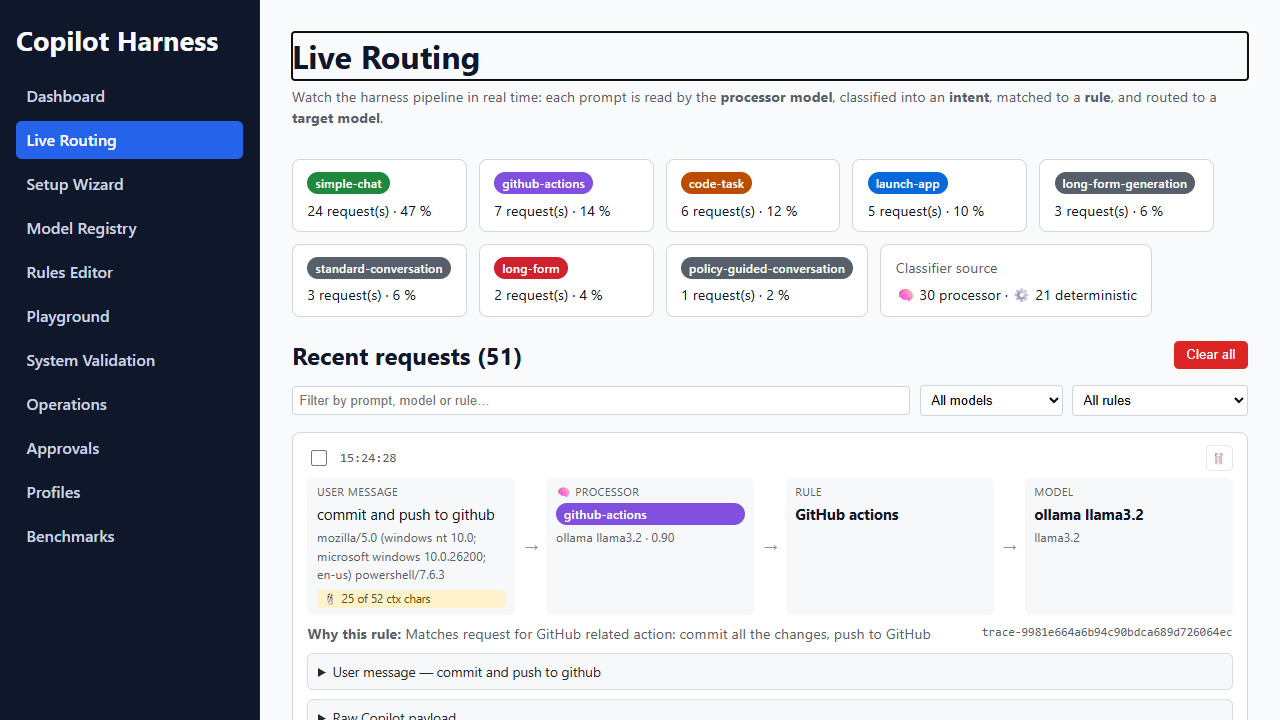
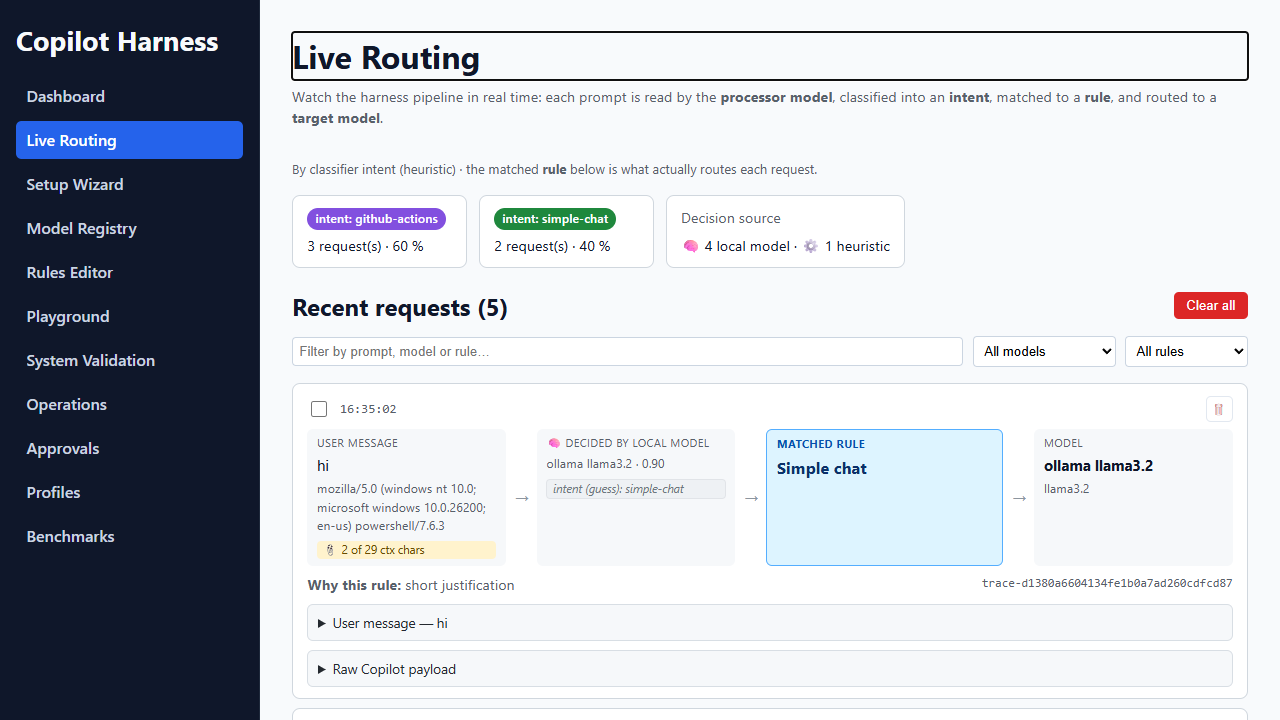
Clarify Live view (intent vs rule), broaden default GitHub rule, document default rules
Live Routing card:
- Lead with the MATCHED RULE (now the dominant element) and show the decision source
  explicitly: "🧠 Decided by local model" vs "⚙️ Keyword/heuristic fallback".
- The classifier intent is no longer a big colored pill that competes with the rule;
  it's a small muted "intent: X" / "intent (guess): X" hint with a clarifying tooltip.
- Top summary cards keep intent grouping but are labeled "By classifier intent (heuristic)".
  Fixes user confusion where intent "github-actions" looked like the chosen rule while the
  actual matched rule differed.

Default starter "GitHub actions" rule (GenerateStarterRulesAsync) broadened to also cover
read-only repo/GitHub questions (open issues, PR status, repo status) so they route to the
local model from a fresh start — not just mutating actions.

Docs (Rules_Engine.md): added a "Default starter rules" section (table + full semantic
paragraph for all four starter rules in priority order) and an "Intent vs. rule" explainer.

Validated: full solution builds clean; 132 tests pass; live-confirmed via Playwright
("are there any open issues in the repo?" -> GitHub actions -> ollama llama3.2, decided by
local model, intent shown as a muted guess). Screenshot refreshed.

diff --git a/src/ElBruno.CopilotHarness.Admin.Web/Components/Pages/LiveRouting.razor.css b/src/ElBruno.CopilotHarness.Admin.Web/Components/Pages/LiveRouting.razor.css
@@ -37,6 +37,27 @@
     text-transform: lowercase;
 }
 
+.summary-caption {
+    margin: 1rem 0 0.35rem;
+    font-size: 0.82rem;
+}
+
+/* Secondary, muted intent guess shown inside a pipeline card. It must never
+   compete visually with the matched rule. */
+.intent-hint {
+    display: inline-block;
+    margin-top: 0.2rem;
+    font-size: 0.72rem;
+    font-style: italic;
+    color: #6e7781;
+    background: #eef1f4;
+    border: 1px solid #e1e4e8;
+    border-radius: 4px;
+    padding: 0.02rem 0.35rem;
+    text-transform: lowercase;
+    cursor: help;
+}
+
 .intent-simple-chat { background: #1f883d; }
 .intent-github-actions { background: #8250df; }
 .intent-launch-app { background: #0969da; }
@@ -93,6 +114,26 @@
     font-size: 0.92rem;
     word-break: break-word;
 }
+
+/* The matched rule is the dominant signal in every card. */
+.stage-primary {
+    background: #ddf4ff;
+    border: 1px solid #54aeff;
+    flex: 1.4 1 9rem;
+}
+
+    .stage-primary .stage-label {
+        color: #0550ae;
+        font-weight: 700;
+    }
+
+    .stage-primary .stage-value {
+        font-size: 1.02rem;
+    }
+
+    .stage-primary .stage-value strong {
+        color: #0a3069;
+    }
 
 .stage-sub {
     font-size: 0.78rem;

diff --git a/docs/Rules_Engine.md b/docs/Rules_Engine.md
@@ -192,9 +192,81 @@ Key properties:
 | Rule | Paragraph (summary) | Engine |
 |---|---|---|
 | Simple chat | Greetings and small talk in any language (`hi`, `hola`, `thanks`) plus lightweight web-search lookups answered with Copilot's search tools. | `ollama llama3.2` (local) |
-| GitHub actions | Commit / push / open PRs and other Git operations. | `ollama llama3.2` (local) |
+| GitHub actions | GitHub *actions* (commit / push / open or merge PRs, branches, tags, releases, labels) **and** read-only GitHub questions (open issues, PR status, repository status). | `ollama llama3.2` (local) |
 | Launch App actions | Run / build / start the application. | `ollama llama3.2` (local) |
 | Others actions *(catch-all)* | Everything else, including complex coding tasks. | `foundry gpt-5-mini` (cloud) |
+
+> The exact paragraphs, priorities, and engines for every seeded rule are documented in
+> [Default starter rules](#default-starter-rules).
+
+## Default starter rules
+
+When no rules exist, the **Rules** page (and the Setup wizard) seeds the starter set below via
+`GenerateStarterRulesAsync`. All four are `SemanticMatch` rules. The first three route to the
+**local** processor model (🖥️, the model flagged `IsProcessor`); the catch-all routes to the
+**cloud** model (☁️). They are listed here in evaluation order (lowest priority first).
+
+| # | Name | Condition type | Target engine | Priority | Enabled | Purpose |
+|---|---|---|---|---|---|---|
+| 1 | Simple chat | `SemanticMatch` | local 🖥️ | 5 | ✅ | Greetings, small talk, and lightweight web-search lookups. |
+| 2 | GitHub actions | `SemanticMatch` | local 🖥️ | 10 | ✅ | Any GitHub request — repo-changing actions **and** read-only repo/issue/PR questions. |
+| 3 | Launch App actions | `SemanticMatch` | local 🖥️ | 20 | ✅ | Launch / run / build / start the application. |
+| 4 | Others actions *(catch-all)* | `SemanticMatch` | cloud ☁️ | 30 | ✅ | Everything else, including complex coding tasks. |
+
+The **full semantic paragraph** for each rule (so they can be recreated from scratch):
+
+**1 · Simple chat** — *local, priority 5*
+
+> Captures short, simple, conversational prompts in any language - greetings and small talk
+> such as 'hi', 'hello', 'hola', 'thanks', 'gracias', 'how are you' - that do not require
+> reading or changing code. Also captures lightweight information lookups that GitHub Copilot
+> answers using its web search tools, for example 'search the web for ...', 'look up ...',
+> 'find online ...', 'what is the latest ...', or general questions about current facts or
+> documentation.
+
+**2 · GitHub actions** — *local, priority 10*
+
+> Captures all GitHub-related requests - both actions that change the repository (commit all
+> the changes, push to GitHub, create or merge a pull request, manage branches, tags, releases
+> or labels) AND read-only questions about the repository or its GitHub state (are there any
+> open issues, list or check issues, pull request status, repository status, list branches,
+> labels, releases, who opened an issue, what PRs are open). Any request about GitHub issues,
+> pull requests, or repository status belongs here.
+
+**3 · Launch App actions** — *local, priority 20*
+
+> Captures all actions where the user asks Copilot to launch, run, build or start the
+> application.
+
+**4 · Others actions** *(catch-all)* — *cloud, priority 30*
+
+> Catch-all rule. Captures every request that does not match the other rules, including complex
+> coding tasks.
+
+> Because *Others actions* is the **last enabled** semantic rule, it also doubles as the
+> fallback when the processor model is unavailable (see [How the analyzer works](#how-the-analyzer-works)).
+
+### Intent vs. rule (why the Live view shows both)
+
+A request carries **two independent classification signals**, and they can legitimately differ:
+
+- **Classifier intent** — a *secondary heuristic* label (`simple-chat`, `github-actions`,
+  `launch-app`, `code-task`, `long-form`) produced by the quick intent classifier from the
+  first ~200 characters. It is only a guess and is **not** what routes the request.
+- **Matched rule** — the rule the **local processor model** actually picks by reading the
+  semantic rule paragraphs (or the deterministic fallback). This is what determines the target
+  engine and is shown in the **rule** and **model** columns.
+
+For example, the prompt *"are there any open issues in the repo?"* may get the intent guess
+`github-actions` while the analyzer correctly matches a different rule (e.g. the broadened
+*GitHub actions* paragraph, or *Others actions*). The matched rule wins. For that reason the
+[Live Routing](Live_Routing.md) page presents the **matched rule** as the dominant signal,
+shows **how** it was decided (🧠 *decided by local model* vs ⚙️ *keyword/heuristic fallback*),
+and renders the intent only as a small, muted `intent:` / `intent (guess):` hint so it is never
+mistaken for the chosen rule. The intent-grouped badges near the top of the page are likewise
+labelled *By classifier intent (heuristic)*.
+
+---
 
 ## Editing rules in the Admin UI
 